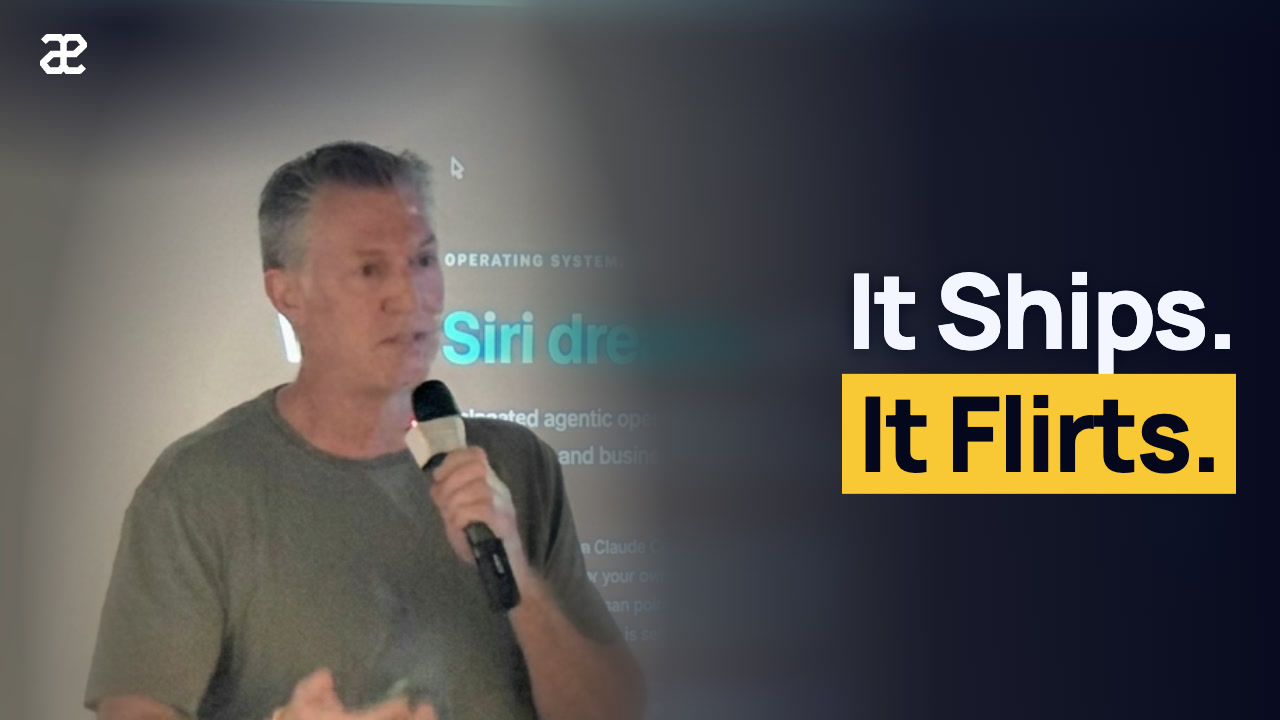
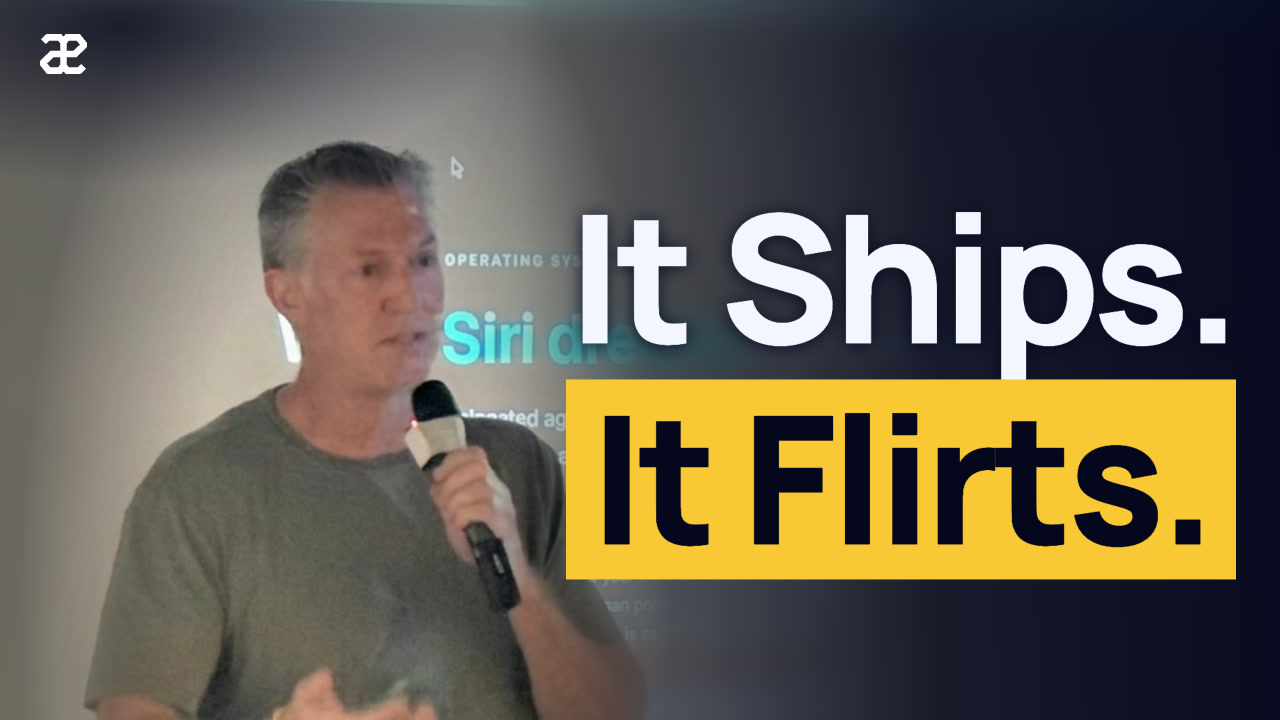
wip: bigger hooks, stand-alone hook rules, update mode

Changed region(s): [[0.4375, 0.275, 0.9688, 0.825]]

diff --git a/scripts/thumbnail.html b/scripts/thumbnail.html
@@ -13,11 +13,11 @@
   .sig { position: absolute; left: 40px; top: 34px; height: 40px; }
   /* Centred a little below the middle: clear of the signature above and of
      YouTube's duration badge in the bottom-right corner. */
-  .hook { position: absolute; top: 52%; transform: translateY(-50%); display: flex; flex-direction: column; gap: 10px;
-          font: 800 104px/1.04 Manrope, sans-serif; letter-spacing: -0.03em; white-space: nowrap; }
+  .hook { position: absolute; top: 53%; transform: translateY(-50%); display: flex; flex-direction: column; gap: 0.08em;
+          font: 800 190px/1.02 Manrope, sans-serif; letter-spacing: -0.03em; white-space: nowrap; }
   .right .hook { left: 44px; align-items: flex-start; }
   .left .hook { right: 44px; align-items: flex-end; }
-  .hook .hl { background: var(--yellow); color: var(--navy); padding: 4px 16px 8px; }
+  .hook .hl { background: var(--yellow); color: var(--navy); padding: 0.03em 0.14em 0.07em; }
   .hook .pl { text-shadow: 0 2px 18px rgba(5, 7, 30, 0.9); }
 </style></head>
 <body><div id="stage"><canvas id="c" width="1280" height="720"></canvas><div id="ui"></div></div>
@@ -83,7 +83,7 @@ function render(img, sharp) {
   ctx.fillStyle = tg; ctx.fillRect(0, 0, 520, 520); ctx.restore();
 
   // Room for the hook: from its margin to the speaker.
-  const room = Math.max(430, left ? W - 44 - (fx + head * 1.25) : fx - head * 1.25 - 44);
+  const room = Math.max(430, left ? W - 44 - (fx + head * 1.1) : fx - head * 1.1 - 44);
   return { side: left ? 'left' : 'right', room };
 }
 
@@ -105,7 +105,10 @@ const load = (src) => new Promise((ok, no) => {
   await document.fonts.ready;
   const h = document.querySelector('.hook');
   let fs = parseFloat(getComputedStyle(h).fontSize);
-  while (h.scrollWidth > r.room && fs > 56) h.style.fontSize = (fs -= 2) + 'px';
+  // As large as fits: the width up to the speaker, and the height between
+  // the logo above and the duration badge's corner below.
+  const tall = () => h.getBoundingClientRect().height > 500;
+  while ((h.scrollWidth > r.room || tall()) && fs > 56) h.style.fontSize = (fs -= 2) + 'px';
   if (h.scrollWidth > r.room) throw new Error('the hook is too wide to clear the speaker: shorten it');
   if (!document.fonts.check('800 20px Manrope')) throw new Error('the fonts did not load');
   document.title = 'ready';

diff --git a/scripts/thumbnail.py b/scripts/thumbnail.py
@@ -13,9 +13,10 @@ in the talk's talk.json, so a thumbnail can be rendered again:
     photo   the speaker photo, copied to <media>/<date>/thumbnails/ (never in git)
     face    x,y,h in that copy's pixels: the centre of the face and the head's
             height, chin to top of hair. Look at the photo to find them.
-    hook    one or two short lines, "|" between them. Five words at most, and
-            something the video title does not already say. The last line gets
-            the yellow block; start the other with * to give it that instead.
+    hook    one to three short lines, "|" between them, five words at most:
+            what the talk is about, readable with no title beside it. Short
+            lines are set larger. The last line gets the yellow block; start
+            another with * to give it that instead.
 
 --enhance sends a crop of the speaker (never the name or the talk) to an image
 model and uses the result for the speaker only. The model invents detail:
@@ -152,8 +153,8 @@ def record(talk: pathlib.Path, args: argparse.Namespace, shots: pathlib.Path) ->
         t["face"] = [int(v) for v in args.face.split(",")]
     if args.hook:
         lines = [l.strip() for l in args.hook.split("|") if l.strip()]
-        if not 1 <= len(lines) <= 2:
-            die("--hook is one or two lines, with | between them")
+        if not 1 <= len(lines) <= 3:
+            die("--hook is one to three lines, with | between them")
         if len(" ".join(lines).replace("*", "").split()) > 5:
             die(f"--hook {args.hook!r} is over five words: it will not read at feed size")
         t["hook"] = lines
@@ -228,7 +229,7 @@ def main() -> None:
     ap.add_argument("talk", nargs="?", help="talk folder (02-david-mihal), its number (02) or its name (david-mihal)")
     ap.add_argument("--photo", help="photo of the speaker")
     ap.add_argument("--face", help="x,y,h in the photo's pixels: face centre and head height")
-    ap.add_argument("--hook", help='one or two lines, e.g. "81%% Written|by Agents"')
+    ap.add_argument("--hook", help='one to three lines, e.g. "81%% Written|by Agents"')
     ap.add_argument("--enhance", action="store_true", help="sharpen the speaker with an image model")
     ap.add_argument("--no-enhance", action="store_true", help="go back to the photo as it is")
     ap.add_argument("--upload", action="store_true", help="set the thumbnails on the YouTube videos")

diff --git a/scripts/youtube_upload.py b/scripts/youtube_upload.py
@@ -284,7 +284,8 @@ def update(items: list[dict], token: str, dry_run: bool) -> None:
         if not changed or dry_run:
             continue
         api("PUT", "videos", token, {"part": "snippet"}, {"id": rec["video_id"], "snippet": new})
-        done.write_text(json.dumps({**rec, **it}, indent=1) + "\n")
+        rec.update(title=new["title"], description=new["description"], tags=new.get("tags", []))
+        done.write_text(json.dumps(rec, indent=1) + "\n")
 
 
 def from_event(event: pathlib.Path) -> list[dict]:

diff --git a/.claude/skills/title-critic/SKILL.md b/.claude/skills/title-critic/SKILL.md
@@ -28,17 +28,21 @@ them.
 In order, for each candidate. The order matters: once you have read the
 transcript you can no longer judge what a stranger takes from the title.
 
-1. **Cold read.** Before opening any file, read only `Title - Speaker` and
-   the hook. Write down what you expect the video to be, who it is for, and
-   whether you would click it among other tech talks, and why.
-2. **Truncate.** Cut the title at 40 characters. Write what is left and
+1. **Hook alone.** Before reading the title or opening any file, read only
+   the hook, as it would sit on a thumbnail beside a photo of a speaker. Write
+   down what you think the talk is about. If you can't say, write that.
+2. **Cold read.** Now read `Title - Speaker` with the hook. Write down what
+   you expect the video to be, who it is for, and whether you would click it
+   among other tech talks, and why.
+3. **Truncate.** Cut the title at 40 characters. Write what is left and
    whether it still says what the video is.
-3. **Fact-check.** Read `transcript.md`. For every claim, number and name in
+4. **Fact-check.** Read `transcript.md`. For every claim, number and name in
    the title and the hook, find the line that backs it and note its
-   timestamp. Then compare the talk with what you expected in step 1.
-4. Score the five dimensions.
+   timestamp. Write the talk's thesis in one sentence, then compare it with
+   what you wrote in steps 1 and 2.
+5. Score the six dimensions.
 
-## The five dimensions
+## The six dimensions
 
 Score each 1 to 5 with one sentence of evidence.
 
@@ -52,18 +56,23 @@ Score each 1 to 5 with one sentence of evidence.
 3. **Pull.** A claim, a number, a tension or a question, specific to this
    talk, or a label that fits a hundred talks? Would it win a click against
    its neighbours without overpromising?
-4. **Pair.** Read title and hook together. They should say two things that
-   make one story: one names the topic, the other gives the reason. Repeated
-   words waste the thumbnail; two unrelated statements confuse. Without a
-   hook, say so and score the title alone.
-5. **Form.** The title before the name is 55 characters or fewer and the
+4. **Hook.** Judged from step 1, then against the thesis. Does the hook alone
+   say what the talk is about? Is it the talk's main point, result or stake,
+   or a moment from it (a detail of an anecdote, an aside, a time of day)?
+   Does it name its subject, or lean on "It", "They" or a number with no
+   unit? A hook nobody could place without the title is a 1 or a 2, however
+   catchy. Without a hook, say so.
+5. **Pair.** Read title and hook together. They should make one story and say
+   more together than either alone. Sharing the topic word is fine; the hook
+   being the title again is not, and neither are two unrelated statements.
+6. **Form.** The hook is five words or fewer on one to three lines. The title before the name is 55 characters or fewer and the
    whole is 100 or fewer; the first 40 characters carry the topic and the
    pull; Title Case; no ALL CAPS, emoji, `<`, `>` or trailing full stop;
    unlike the event's other titles.
 
 ## Verdict
 
-- `ship`: Truth is 5 and nothing else is under 4.
+- `ship`: Truth is 5 and nothing else is under 4, Hook included.
 - `fix`: a named change would get it there.
 - `redo`: Truth is under 4, or the title is a label with no pull.
 
@@ -73,11 +82,13 @@ Per candidate:
 
 ```
 <Title> - <Speaker>   [hook: <line one> / <line two>]
+Hook alone: <what you took the talk to be about>
 Cold read: <what you expected> / <click or not, and why>
 At 40 chars: "<the cut title>"
 Truth   n/5  <claim -> [timestamp] or "not in the transcript">
 Clarity n/5  <evidence>
 Pull    n/5  <evidence>
+Hook    n/5  <evidence>
 Pair    n/5  <evidence>
 Form    n/5  <character counts; evidence>
 Changes, most valuable first:

diff --git a/.claude/skills/youtube-title/SKILL.md b/.claude/skills/youtube-title/SKILL.md
@@ -6,9 +6,11 @@ description: Write a meetup talk's YouTube title and its thumbnail hook as a pai
 # YouTube title
 
 A talk's title and its thumbnail hook are shown side by side in every feed and
-are written together: the title says what the video is, the hook gives the
-reason to click. Both must be true to the talk, because YouTube ranks on watch
-time and a viewer who was promised something else leaves.
+are written together. The hook is seen first, large, on the thumbnail: it says
+what the talk is about in a few words. The title is read second and says it
+exactly, in words people search for. Both must be true to the talk, because
+YouTube ranks on watch time and a viewer who was promised something else
+leaves.
 
 ## Where they live
 
@@ -31,10 +33,9 @@ time and a viewer who was promised something else leaves.
    question, one "how" or "why". For each, quote the transcript line that
    backs it. A title with no line behind it is dropped.
 
-3. **Draft a hook for each title**, five words or fewer on one or two lines,
-   that adds what the title leaves out: if the title names the topic, the
-   hook carries the number or the stake, and the reverse. A hook that repeats
-   the title's words is rewritten.
+3. **Draft a hook for each title** by the hook rules below. Start from the
+   thesis you wrote in step 1, not from the title: cover the title and ask
+   whether the hook alone says what the talk is about.
 
 4. **Check each pair** against the rules below and keep the best three.
 
@@ -66,5 +67,26 @@ time and a viewer who was promised something else leaves.
 - **Title Case**, as the channel's other titles. No trailing full stop.
 - **Unlike its neighbours.** Read the event's other titles: three talks that
   all start "How I..." hide each other.
+
+## Rules for a hook
+
+The hook is the largest thing on the thumbnail and is read before the title,
+often with the title cut off or not read at all.
+
+- **Stands alone.** Someone who sees only the photo and the hook can say what
+  the talk is about. Test it by covering the title.
+- **The main point, not a moment.** It carries the talk's thesis, result or
+  stake. A detail from an anecdote ("It Caught the Wrong Day") or the time
+  something happened ("It Comes at 9 p.m.") is not the talk.
+- **Names its subject.** No "It", "They" or "This" whose meaning lives in the
+  title. Use the noun.
+- **A number only with its unit and only if it is the talk's central
+  result.** "81% Written by Agents", not "212 Times".
+- **Five words or fewer, on one to three lines.** Short lines are set larger:
+  aim for ten characters a line.
+- **Works with the title, without copying it.** It may share the topic word.
+  It must not be the title again, and the two together should say more than
+  either alone.
+- **True**, by the same standard as the title.
 
 Sources and strength of evidence: `../title-critic/references/best-practices.md`.

diff --git a/scripts/README.md b/scripts/README.md
@@ -19,7 +19,7 @@ elsewhere, such as an external disk.
 | `detect_talks.py` | Finds the talk boundaries from the coarse pass, then refines each to the second |
 | `talk_transcript.py` | Renders `transcript.md` from chunk files, later files patching earlier ones |
 | `youtube_md.py` | Renders each `youtube.md` from `description.md` + `talk.json` |
-| `youtube_upload.py` | Uploads the talks as private videos into the event's playlist |
+| `youtube_upload.py` | Uploads the talks as private videos into the event's playlist; `--update` sets title, description and tags on talks already uploaded |
 | `thumbnail.py` | Renders a talk's `thumbnail.jpg` from a speaker photo and a hook (`thumbnail.html`, headless Chrome); `--upload` sets it on the video |
 | `import_youtube.py` | Brings talks already on YouTube into `content/<date>/`, links from the Substack recap, and with `--transcribe` their transcripts |
 | `photos.py` | Web copies of every photo on the site: `web`, `optimize`, `preview` (org ADR 0009) |

diff --git a/.claude/skills/thumbnail-critic/SKILL.md b/.claude/skills/thumbnail-critic/SKILL.md
@@ -86,9 +86,12 @@ Score each 1 to 5 with one sentence of evidence from what you saw.
 
 ### 3. Hook: do the words and the title earn the click together?
 
-- **Complement, don't repeat.** The title is printed next to the thumbnail.
-  Thumbnail text that restates it wastes the space; it should add the tension,
-  the number or the stake the title leaves out.
+- **Stands alone.** From step 2: with the title covered, does the hook say
+  what the talk is about? A detail from an anecdote, a pronoun with nothing
+  to point at, or a number with no unit fails, however catchy.
+- **Works with the title.** The title is printed next to the thumbnail. The
+  hook may share its topic word but should not be the title again; together
+  they should say more than either alone.
 - **Claim, not label.** "Nobody Reviews 4,093 PRs" is a claim. "Design to
   Code" is a label and gives no reason to click. Working patterns: a specific
   number, a contradiction, a question the viewer wants answered, a stake.

diff --git a/.claude/skills/meetup-video/references/formats.md b/.claude/skills/meetup-video/references/formats.md
@@ -64,6 +64,11 @@ python3 scripts/youtube_upload.py content/<date> --playlist "Lisbon Meetup #N"
   of `transcript.md` becomes `# [Title](url)`, and each talk gets a
   `youtube.json`. A talk with a `youtube.json` is never uploaded again, so
   re-running only fills in what's missing.
+- Titles: the `youtube-title` skill writes the title and the thumbnail hook as
+  a pair from the transcript, and `title-critic` judges them. After a title or
+  description changes on a talk that is already up,
+  `python3 scripts/youtube_upload.py content/<date> --update` (add `--dry-run`
+  first to see what would change).
 - Thumbnails: the user supplies a photo of each speaker facing the room, head
   80px or more tall. Find the face centre and head height in the photo, then
   `python3 scripts/thumbnail.py <event> <talk> --photo P --face X,Y,H --hook "Line one|Line two"`
